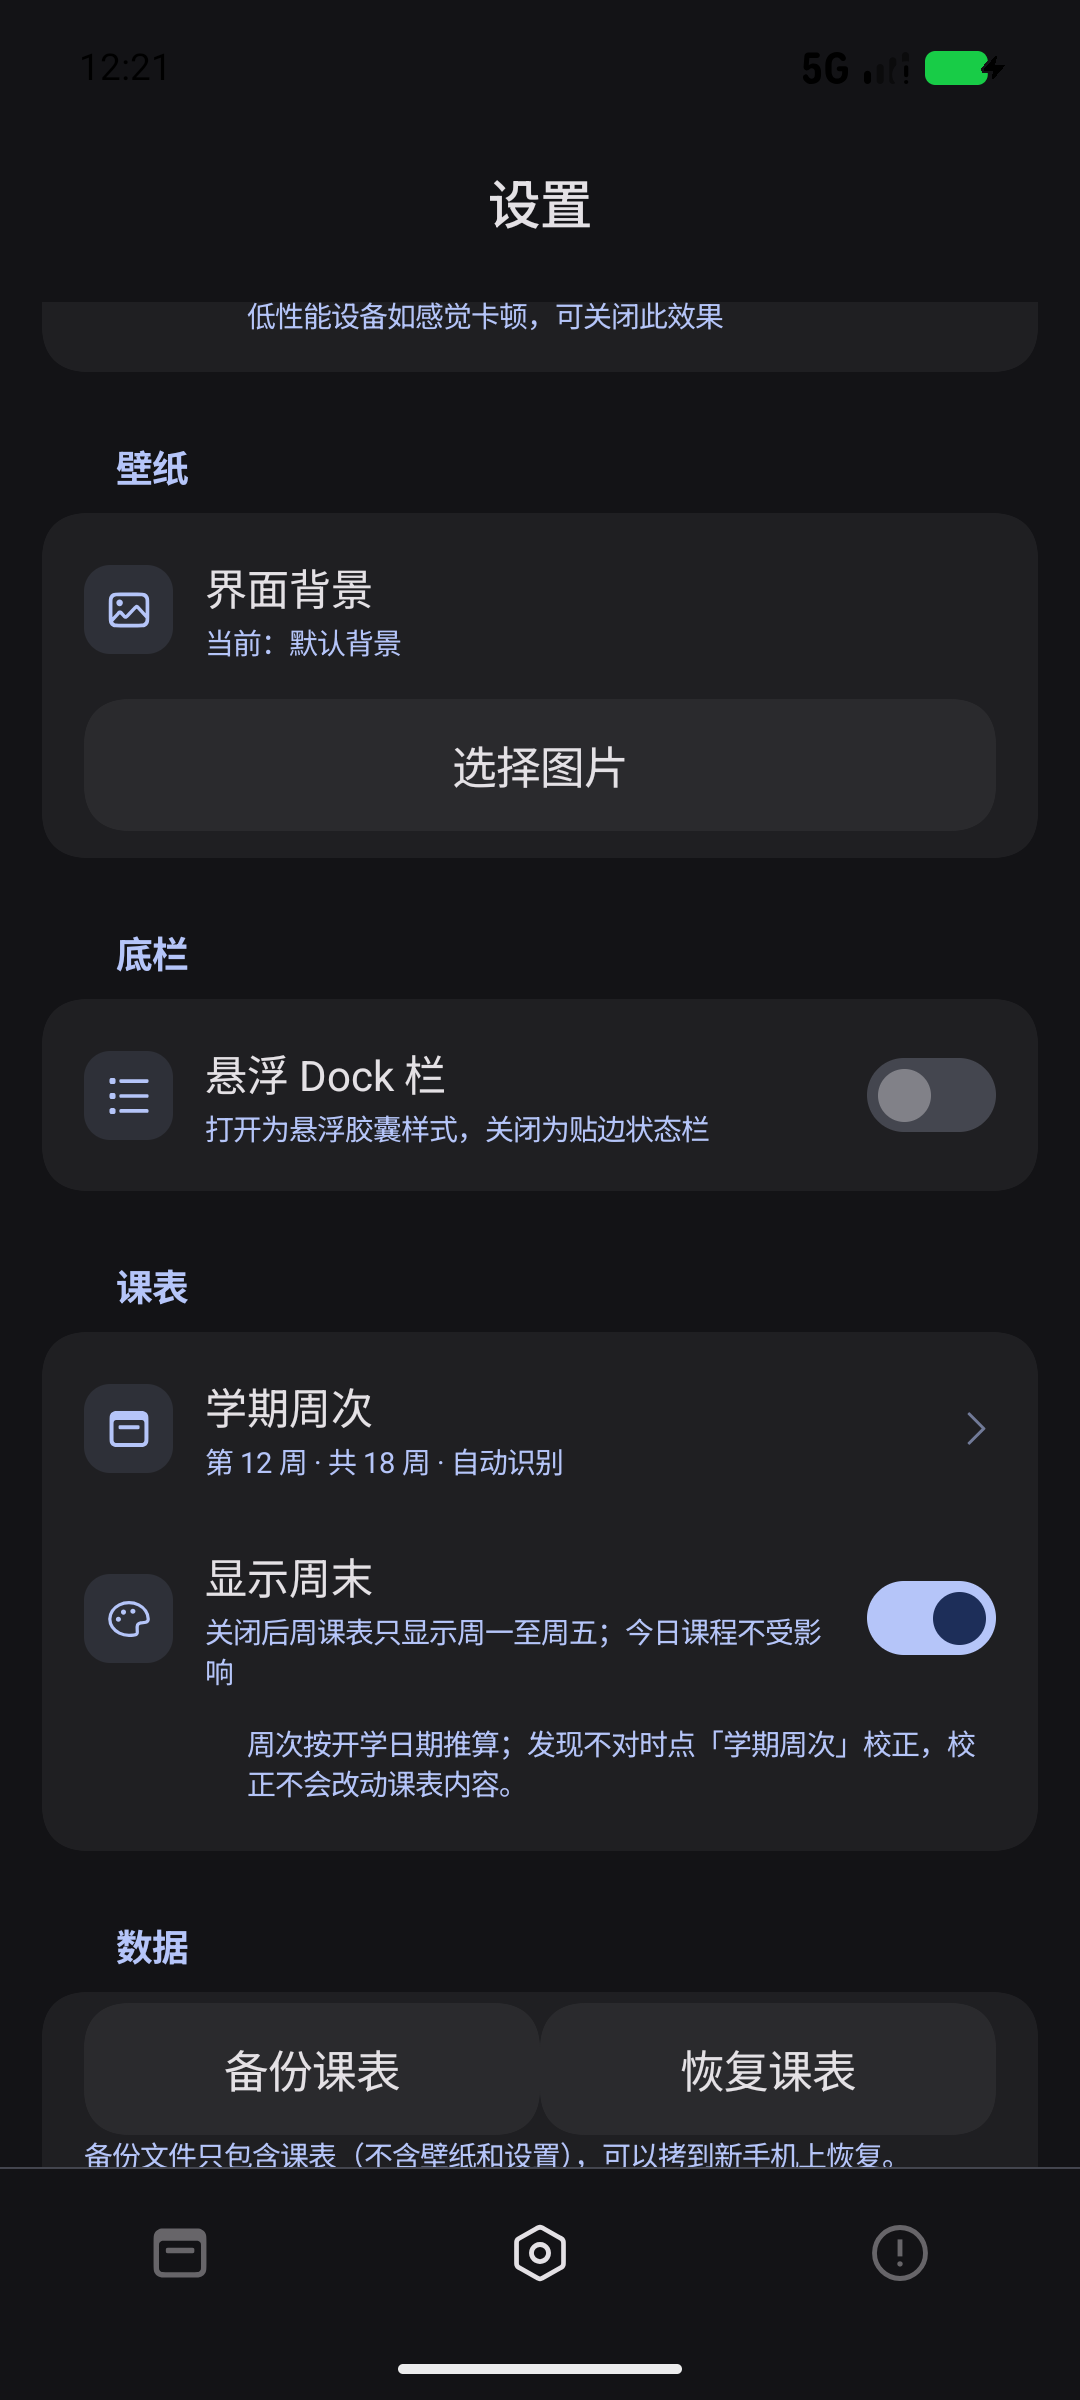
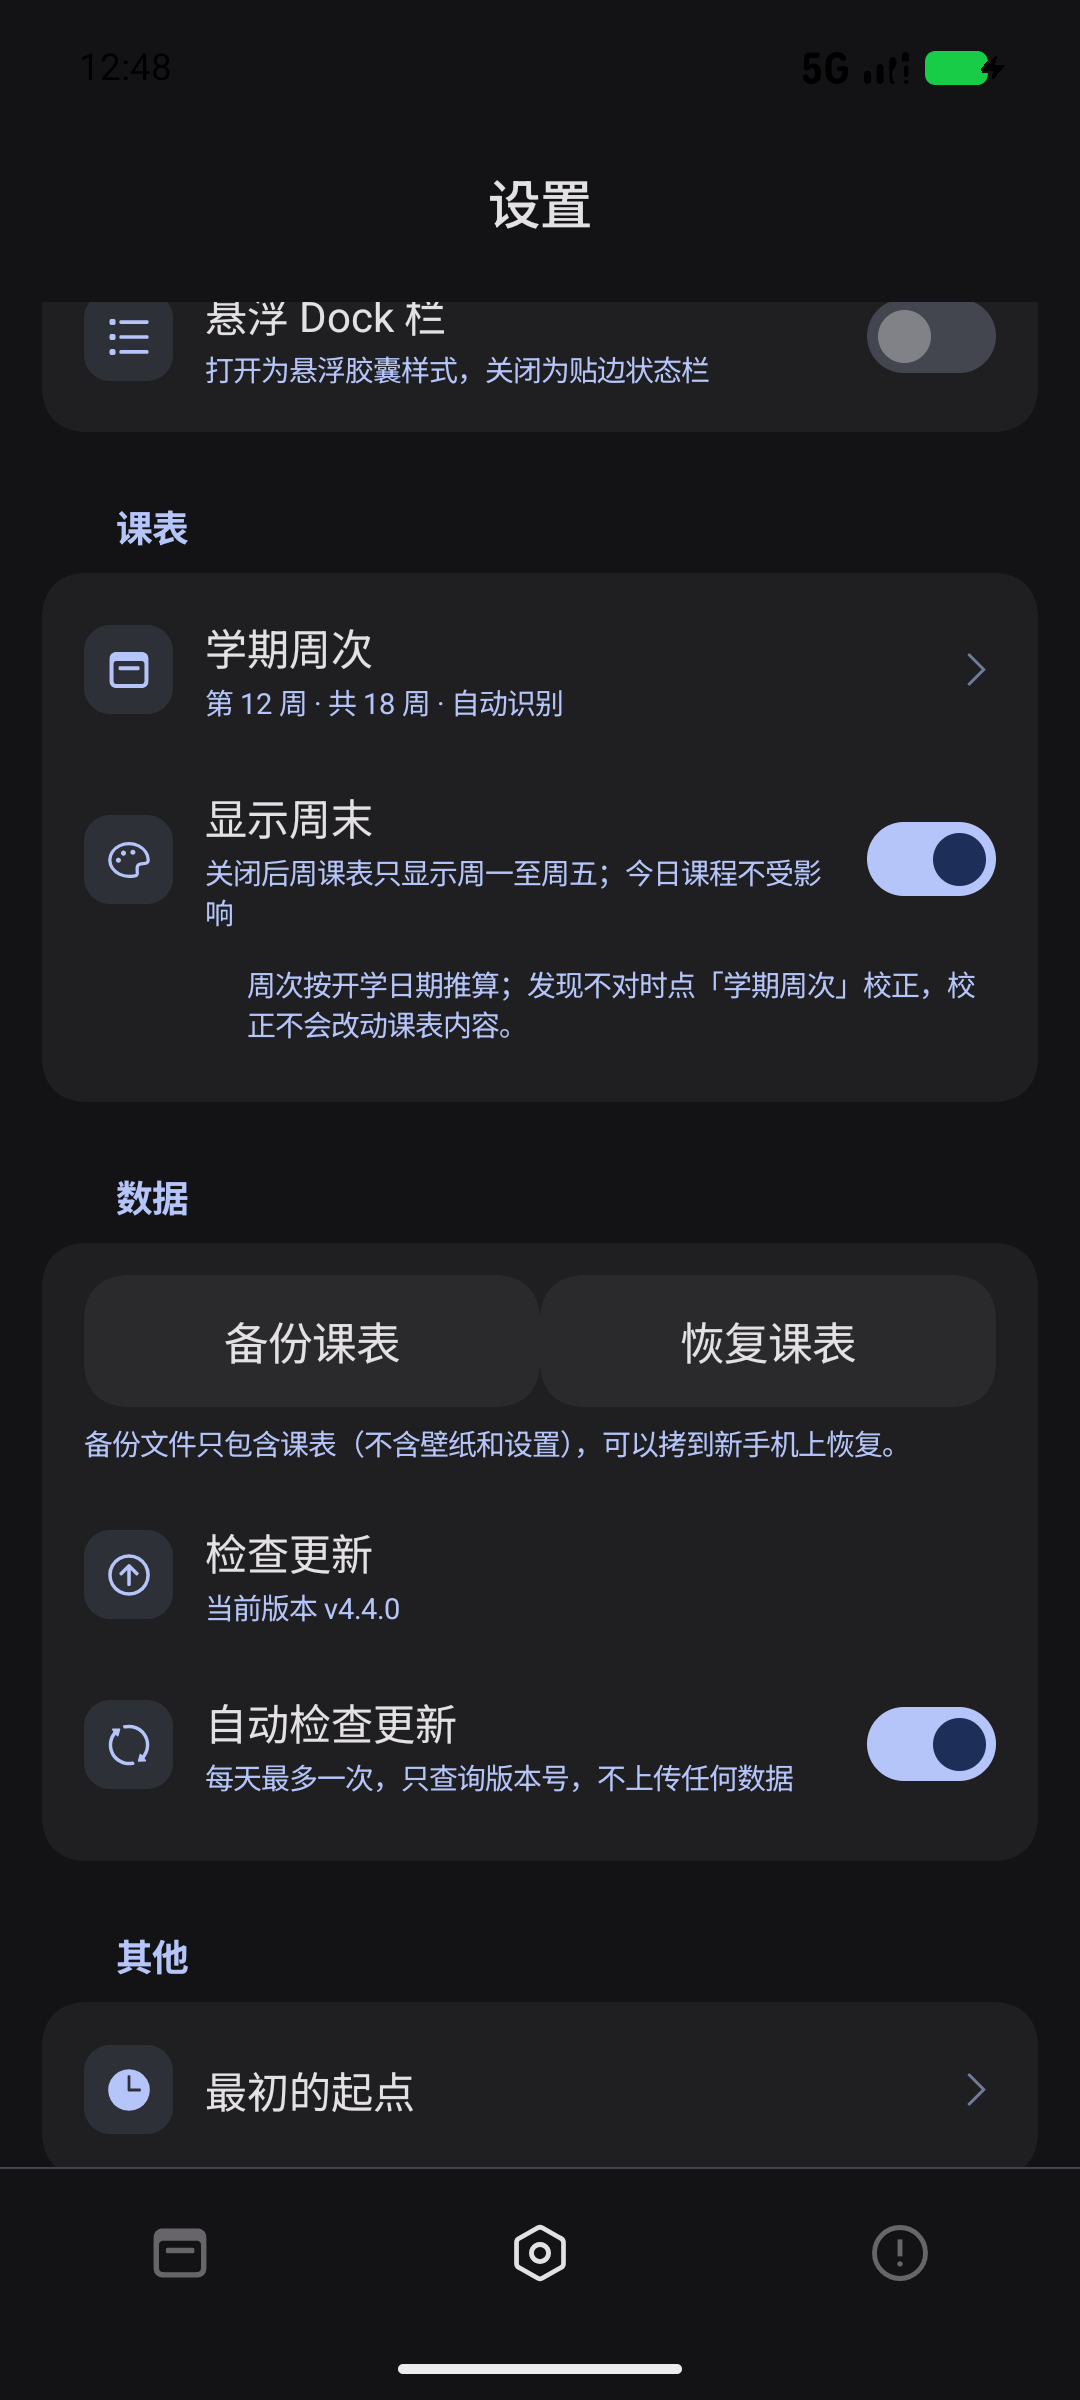
v4.4.1：五天课表限宽居中（不再拉成大方块）+ 设置页新模块间距对齐

diff --git a/app/src/main/java/com/jianke/schedule/ui/HomeScreen.kt b/app/src/main/java/com/jianke/schedule/ui/HomeScreen.kt
@@ -454,9 +454,30 @@ private fun dateRangeOf(dates: List<LocalDate?>): String? {
     return first.format(RANGE_FORMAT) + " – " + last.format(RANGE_FORMAT)
 }
 
-/** 课表里每一天的列宽。每列各留一份 CellGap，加起来正好铺满可用宽度（周末折叠时是 5 列）。 */
-private fun dayColumnWidth(maxWidth: Dp, dayCount: Int): Dp =
-    (maxWidth - Ui.PeriodGutter - Ui.CellGap * dayCount) / dayCount
+/**
+ * 5 天视图每列相对 7 列基准宽度的倍数上限。
+ *
+ * 7 天时列宽很窄，看着像「课表条」；隐藏周末后如果硬把 5 列撑满整屏，
+ * 每格会变成 63dp 宽的大方块，课名缩在中间、整屏像一堆色块，很丑。
+ * 这里限制在 7 列基准的 1.2 倍以内，剩下的宽度两侧平分留白。
+ */
+private const val FIVE_DAY_WIDTH_RATIO = 1.2f
+
+/** 课表里每一天的列宽。每列各留一份 CellGap；5 天视图限宽，避免格子被拉成大方块。 */
+private fun dayColumnWidth(maxWidth: Dp, dayCount: Int): Dp {
+    val fill = (maxWidth - Ui.PeriodGutter - Ui.CellGap * dayCount) / dayCount
+    if (dayCount >= 7) return fill
+    val sevenDay = (maxWidth - Ui.PeriodGutter - Ui.CellGap * 7) / 7
+    return minOf(fill, sevenDay * FIVE_DAY_WIDTH_RATIO)
+}
+
+/** 课表整体（节次栏 + 各天）在可用宽度里的左偏移：5 天视图限宽后整体居中，两侧留白平分。 */
+private fun gridLeftOffset(maxWidth: Dp, dayCount: Int): Dp {
+    if (dayCount >= 7) return 0.dp
+    val dayWidth = dayColumnWidth(maxWidth, dayCount)
+    val total = Ui.PeriodGutter + dayWidth * dayCount + Ui.CellGap * (dayCount - 1)
+    return ((maxWidth - total) / 2f).coerceAtLeast(0.dp)
+}
 
 /** 表头：星期几 + 日期，今天那一列用主题色标出来。 */
 @Composable
@@ -471,6 +492,7 @@ private fun DayHeader(dates: List<LocalDate?>, isCurrentWeek: Boolean) {
             .padding(horizontal = Ui.Page),
     ) {
         val dayWidth = dayColumnWidth(maxWidth, dates.size)
+        val leftOffset = gridLeftOffset(maxWidth, dates.size)
         Row(
             modifier = Modifier
                 .fillMaxWidth()
@@ -482,6 +504,7 @@ private fun DayHeader(dates: List<LocalDate?>, isCurrentWeek: Boolean) {
                 .padding(vertical = 5.dp),
             verticalAlignment = Alignment.CenterVertically,
         ) {
+            Spacer(Modifier.width(leftOffset))
             Spacer(Modifier.width(Ui.PeriodGutter))
             dates.forEachIndexed { index, date ->
                 val isToday = isCurrentWeek && date != null && date == today
@@ -585,6 +608,7 @@ private fun WeekGrid(
     ) {
         val rowHeight: Dp = maxHeight / ROW_COUNT
         val dayWidth: Dp = dayColumnWidth(maxWidth, dayCount)
+        val leftOffset: Dp = gridLeftOffset(maxWidth, dayCount)
         val step: Dp = dayWidth + Ui.CellGap
         Box(modifier = Modifier.fillMaxSize()) {
             schoolBigPeriods.forEach { bp ->
@@ -595,6 +619,7 @@ private fun WeekGrid(
                         .offset(y = rowHeight * bp.row),
                     verticalAlignment = Alignment.CenterVertically,
                 ) {
+                    Spacer(Modifier.width(leftOffset))
                     Column(
                         modifier = Modifier.width(Ui.PeriodGutter),
                         horizontalAlignment = Alignment.CenterHorizontally,
@@ -643,7 +668,7 @@ private fun WeekGrid(
                     // 这样上下相邻的两门课之间也会留出缝，不会糊成一片。
                     val fullW = dayWidth + Ui.CellGap
                     val laneW = fullW / p.lanes
-                    val x = Ui.PeriodGutter + step * (day - 1) + laneW * p.lane
+                    val x = leftOffset + Ui.PeriodGutter + step * (day - 1) + laneW * p.lane
                     val y = rowHeight * p.startRow
                     val h = rowHeight * (p.endRow - p.startRow + 1)
                     // 浮窗显示期间，来源格子轻微放大，点浮窗的来去有了「从哪来」的反馈

diff --git a/app/src/main/java/com/jianke/schedule/ui/SettingsScreen.kt b/app/src/main/java/com/jianke/schedule/ui/SettingsScreen.kt
@@ -364,11 +364,13 @@ fun SettingsScreen(
                 showChevron = true,
             )
             if (semester?.hasManual == true) {
+                Spacer(Modifier.height(4.dp))
                 TextButton(
                     text = "恢复自动识别",
                     onClick = { onSemesterReset() },
                     modifier = Modifier.fillMaxWidth(),
                 )
+                Spacer(Modifier.height(2.dp))
             }
             SettingRow(
                 icon = MiuixIcons.Background,
@@ -382,11 +384,13 @@ fun SettingsScreen(
                 color = MiuixTheme.colorScheme.onBackgroundVariant,
                 modifier = Modifier.padding(start = 62.dp, bottom = 10.dp),
             )
-            Spacer(Modifier.height(4.dp))
+            Spacer(Modifier.height(8.dp))
         }
 
         SectionHeader("数据")
         SettingsCard {
+            // 按钮行贴着卡片顶边会显得很挤：上下各留一小段呼吸
+            Spacer(Modifier.height(8.dp))
             Row(modifier = Modifier.fillMaxWidth()) {
                 TextButton(
                     text = "备份课表",
@@ -410,20 +414,21 @@ fun SettingsScreen(
                     modifier = Modifier.weight(1f),
                 )
             }
+            Spacer(Modifier.height(6.dp))
             if (backupHint.isNotBlank()) {
                 Text(
                     text = backupHint,
                     style = MiuixTheme.textStyles.footnote2,
                     color = MiuixTheme.colorScheme.primary,
                 )
+                Spacer(Modifier.height(4.dp))
             }
             Text(
                 text = "备份文件只包含课表（不含壁纸和设置），可以拷到新手机上恢复。",
                 style = MiuixTheme.textStyles.footnote2,
                 color = MiuixTheme.colorScheme.onBackgroundVariant,
-                modifier = Modifier.padding(bottom = 8.dp),
             )
-            Spacer(Modifier.height(2.dp))
+            Spacer(Modifier.height(10.dp))
             SettingRow(
                 icon = MiuixIcons.Update,
                 title = "检查更新",
@@ -446,7 +451,7 @@ fun SettingsScreen(
                     Switch(checked = autoCheckUpdates, onCheckedChange = onAutoCheckUpdatesChange)
                 },
             )
-            Spacer(Modifier.height(6.dp))
+            Spacer(Modifier.height(8.dp))
         }
 
         SectionHeader("其他")

diff --git a/CHANGELOG.md b/CHANGELOG.md
@@ -4,6 +4,16 @@
 
 ---
 
+## v4.4.1（2026-11-19）
+- **五天课表布局重做**：隐藏周末后 5 列原来强行铺满整屏——每格 63dp 宽、课名缩在一大片
+  色块中间，整屏像一堆大方块。现在把列宽限制在 **7 列基准宽度的 1.2 倍以内**，整块课表
+  （节次栏 + 5 天）在页面里居中、两侧留白平分：格子长宽比回到与 7 天视图接近的样子，
+  表头日期列、今天高亮、课程块用同一套偏移计算，不会错位。7 天视图不受影响。
+- **设置页新模块间距对齐**：数据卡片的「备份课表 / 恢复课表」与卡片顶边、说明文字、
+  「检查更新」之间的间距按其他卡片的节奏补齐（顶边 +8dp、按钮与说明 +6dp、说明与
+  检查更新 +10dp）；课表卡片的「恢复自动识别」按钮上下各补 4dp / 2dp 留白。
+- 文档：`docs/screenshots/05-设置.png` 更新为新版。
+
 ## v4.4.0（2026-11-19）
 细节批次：检查更新、学期周次校正、课表备份恢复、周末折叠、下一节倒计时。
 
